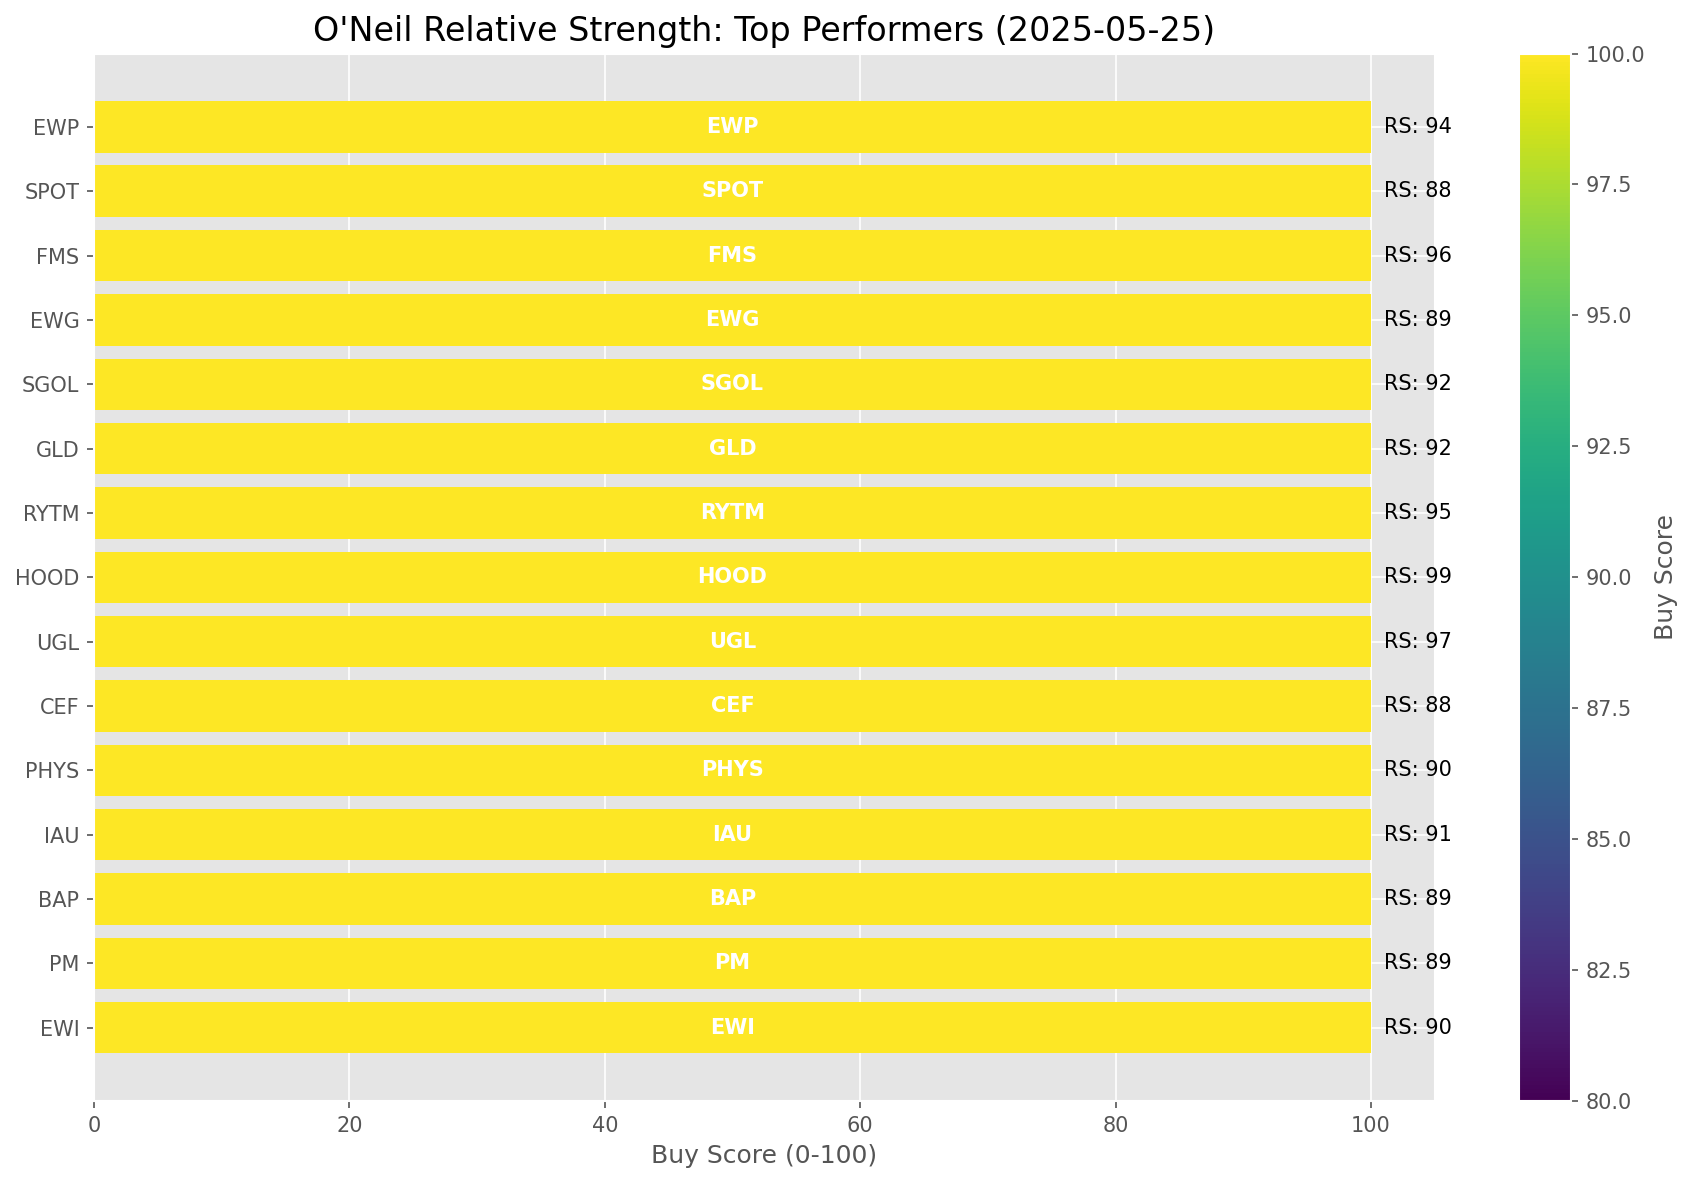
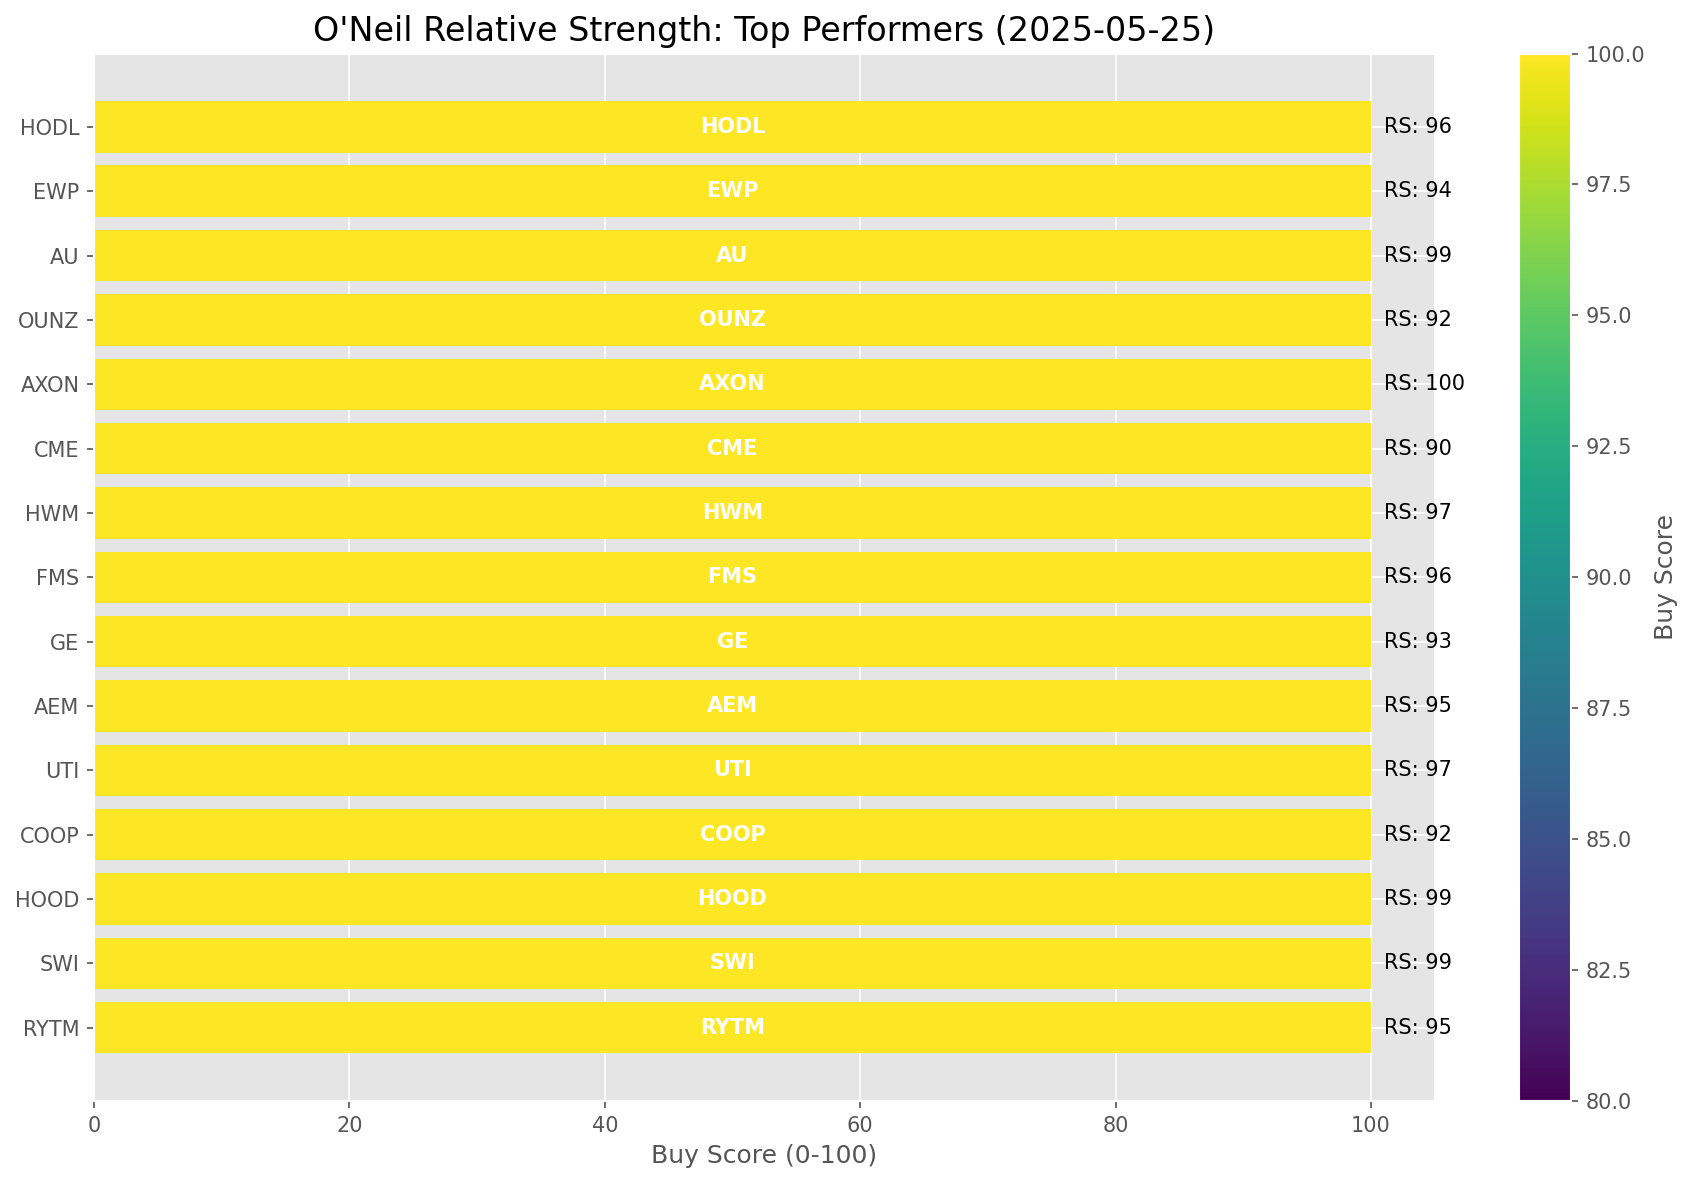
Add market report for 2025-05-25

diff --git a/oneil_relative_strength_report_2025-05-25.md b/oneil_relative_strength_report_2025-05-25.md
@@ -51,8 +51,8 @@ Based on William O'Neil's Relative Strength Methodology
 |-----|----------|-----------|-------------|--------------|-------|--------|
 | [GLD](https://www.tradingview.com/chart/?symbol=GLD) | 96.0 | 92.0 | 15.31% | 10d ✓, 50d ✓, 200d ✓ | ↗ | Gold |
 | [CIBR](https://www.tradingview.com/chart/?symbol=CIBR) | 91.0 | 82.0 | 7.07% | 10d ✓, 50d ✓, 200d ✓ | ↗ | Cybersecurity |
-| [SLV](https://www.tradingview.com/chart/?symbol=SLV) | 90.0 | 80.0 | 5.62% | 10d ✓, 50d ✓, 200d ✓ | ↗ | Silver |
 | [ARKW](https://www.tradingview.com/chart/?symbol=ARKW) | 90.0 | 80.0 | 5.81% | 10d ✓, 50d ✓, 200d ✓ | ↗ | Next Generation Internet |
+| [SLV](https://www.tradingview.com/chart/?symbol=SLV) | 90.0 | 80.0 | 5.62% | 10d ✓, 50d ✓, 200d ✓ | ↗ | Silver |
 | [XLU](https://www.tradingview.com/chart/?symbol=XLU) | 85.5 | 71.0 | 2.00% | 10d ✓, 50d ✓, 200d ✓ | ↗ | Utilities |
 | [BLOK](https://www.tradingview.com/chart/?symbol=BLOK) | 84.5 | 69.0 | 1.41% | 10d ✓, 50d ✓, 200d ✓ | ↗ | Blockchain & Cryptocurrency |
 | [ARKF](https://www.tradingview.com/chart/?symbol=ARKF) | 81.1 | 82.0 | 6.96% | 10d ✗, 50d ✓, 200d ✓ | ↗ | Fintech Innovation |
@@ -98,7 +98,7 @@ This table shows the relative strength metrics for different market sectors base
 
 ### **Current Sector Leadership**
 
-The current market leadership is coming from the following sectors: **Gold, Cybersecurity, Silver**.
+The current market leadership is coming from the following sectors: **Gold, Cybersecurity, Next Generation Internet**.
 
 The **Gold** sector (represented by **GLD**) is showing particularly strong relative strength with an RS rating of 92.0 and performance of 15.31% vs. the S&P 500. This sector is trading above its 10-day, 50-day, 200-day moving average(s). Investors should consider focusing on high RS stocks within these leading sectors for potential outperformance.
 
@@ -110,34 +110,34 @@ The following 82 stocks show exceptional relative strength:
 
 | RS Rating | Buy Score | Current Price | Chart | Name | Ticker |
 |-----------|-----------|---------------|-------|------|--------|
-| 100 | 100 | $203.26 | [Chart](https://www.tradingview.com/chart/?symbol=AGX) | Argan, Inc | AGX |
 | 100 | 100 | $731.37 | [Chart](https://www.tradingview.com/chart/?symbol=AXON) | Axon Enterprise, Inc. Common Stock | AXON |
-| 100 | 100 | $105.31 | [Chart](https://www.tradingview.com/chart/?symbol=SEZL) | Sezzle Inc. Common Stock | SEZL |
 | 100 | 100 | $92.35 | [Chart](https://www.tradingview.com/chart/?symbol=RBRK) | Rubrik, Inc. | RBRK |
+| 100 | 100 | $105.31 | [Chart](https://www.tradingview.com/chart/?symbol=SEZL) | Sezzle Inc. Common Stock | SEZL |
+| 100 | 100 | $203.26 | [Chart](https://www.tradingview.com/chart/?symbol=AGX) | Argan, Inc | AGX |
 | 100 | 100 | $197.32 | [Chart](https://www.tradingview.com/chart/?symbol=DAVE) | Dave Inc. Class A Common Stock | DAVE |
-| 100 | 100 | $23.15 | [Chart](https://www.tradingview.com/chart/?symbol=PRA) | ProAssurance Corporation | PRA |
 | 100 | 100 | $464.39 | [Chart](https://www.tradingview.com/chart/?symbol=GEV) | GE Vernova Inc. | GEV |
+| 100 | 100 | $23.15 | [Chart](https://www.tradingview.com/chart/?symbol=PRA) | ProAssurance Corporation | PRA |
 | 99 | 100 | $63.17 | [Chart](https://www.tradingview.com/chart/?symbol=HOOD) | Robinhood Markets, Inc. Class A Common Stock | HOOD |
-| 99 | 100 | $304.11 | [Chart](https://www.tradingview.com/chart/?symbol=CVNA) | Carvana Co. | CVNA |
 | 99 | 100 | $44.04 | [Chart](https://www.tradingview.com/chart/?symbol=AU) | AngloGold Ashanti plc | AU |
 | 99 | 100 | $36.01 | [Chart](https://www.tradingview.com/chart/?symbol=KTOS) | Kratos Defense & Security Solutions, Inc. | KTOS |
 | 99 | 100 | $82.26 | [Chart](https://www.tradingview.com/chart/?symbol=RBLX) | Roblox Corporation | RBLX |
+| 99 | 100 | $304.11 | [Chart](https://www.tradingview.com/chart/?symbol=CVNA) | Carvana Co. | CVNA |
 | 98 | 100 | $164.06 | [Chart](https://www.tradingview.com/chart/?symbol=SE) | Sea Limited American Depositary Shares, each representing one Class A Ordinary Share | SE |
 | 98 | 100 | $71.79 | [Chart](https://www.tradingview.com/chart/?symbol=ULS) | UL Solutions Inc. | ULS |
-| 98 | 100 | $55.28 | [Chart](https://www.tradingview.com/chart/?symbol=SHLD) | Global X Defense Tech ETF | SHLD |
 | 98 | 100 | $162.56 | [Chart](https://www.tradingview.com/chart/?symbol=PLMR) | Palomar Holdings, Inc. Common stock | PLMR |
+| 98 | 100 | $55.28 | [Chart](https://www.tradingview.com/chart/?symbol=SHLD) | Global X Defense Tech ETF | SHLD |
 | 98 | 100 | $24.00 | [Chart](https://www.tradingview.com/chart/?symbol=GRND) | Grindr Inc. | GRND |
-| 97 | 100 | $144.55 | [Chart](https://www.tradingview.com/chart/?symbol=UGL) | ProShares Ultra Gold | UGL |
+| 97 | 100 | $34.99 | [Chart](https://www.tradingview.com/chart/?symbol=UTI) | Universal Technical Institute, Inc. | UTI |
 | 97 | 100 | $165.09 | [Chart](https://www.tradingview.com/chart/?symbol=HWM) | Howmet Aerospace Inc. | HWM |
+| 97 | 100 | $144.55 | [Chart](https://www.tradingview.com/chart/?symbol=UGL) | ProShares Ultra Gold | UGL |
 | 97 | 100 | $26.30 | [Chart](https://www.tradingview.com/chart/?symbol=UVE) | UNIVERSAL INSURANCE HLDG, INC. | UVE |
 | 97 | 100 | $21.78 | [Chart](https://www.tradingview.com/chart/?symbol=TFPM) | Triple Flag Precious Metals Corp. | TFPM |
-| 97 | 100 | $34.99 | [Chart](https://www.tradingview.com/chart/?symbol=UTI) | Universal Technical Institute, Inc. | UTI |
 | 97 | 100 | $37.04 | [Chart](https://www.tradingview.com/chart/?symbol=AS) | Amer Sports, Inc. | AS |
 | 96 | 100 | $29.02 | [Chart](https://www.tradingview.com/chart/?symbol=FMS) | Fresenius Medical Care AG | FMS |
-| 96 | 100 | $61.83 | [Chart](https://www.tradingview.com/chart/?symbol=IBIT) | iShares Bitcoin Trust ETF | IBIT |
 | 96 | 100 | $30.77 | [Chart](https://www.tradingview.com/chart/?symbol=HODL) | VanEck Bitcoin ETF | HODL |
-| 96 | 100 | $86.62 | [Chart](https://www.tradingview.com/chart/?symbol=WPM) | Wheaton Precious Metals Corp. Common Stock | WPM |
+| 96 | 100 | $61.83 | [Chart](https://www.tradingview.com/chart/?symbol=IBIT) | iShares Bitcoin Trust ETF | IBIT |
 | 96 | 100 | $18.84 | [Chart](https://www.tradingview.com/chart/?symbol=MIR) | Mirion Technologies, Inc. | MIR |
+| 96 | 100 | $86.62 | [Chart](https://www.tradingview.com/chart/?symbol=WPM) | Wheaton Precious Metals Corp. Common Stock | WPM |
 | 96 | 100 | $48.18 | [Chart](https://www.tradingview.com/chart/?symbol=BTC) | Grayscale Bitcoin Mini Trust ETF | BTC |
 | 95 | 100 | $62.36 | [Chart](https://www.tradingview.com/chart/?symbol=RYTM) | Rhythm Pharmaceuticals, Inc. Common Stock | RYTM |
 | 95 | 100 | $117.62 | [Chart](https://www.tradingview.com/chart/?symbol=AEM) | Agnico Eagle Mines Ltd. | AEM |
@@ -146,35 +146,35 @@ The following 82 stocks show exceptional relative strength:
 | 94 | 100 | $152.75 | [Chart](https://www.tradingview.com/chart/?symbol=CAH) | Cardinal Health, Inc. | CAH |
 | 94 | 100 | $180.59 | [Chart](https://www.tradingview.com/chart/?symbol=RGLD) | Royal Gold Inc | RGLD |
 | 94 | 100 | $75.06 | [Chart](https://www.tradingview.com/chart/?symbol=VRNA) | Verona Pharma plc | VRNA |
-| 93 | 100 | $45.22 | [Chart](https://www.tradingview.com/chart/?symbol=BTI) | British American Tobacco p.l.c. American Depositary Shares, American Depositary Shares, each representing one Ordinary Share | BTI |
 | 93 | 100 | $232.79 | [Chart](https://www.tradingview.com/chart/?symbol=GE) | GE Aerospace | GE |
 | 93 | 100 | $97.99 | [Chart](https://www.tradingview.com/chart/?symbol=JCI) | Johnson Controls International plc | JCI |
-| 92 | 100 | $309.75 | [Chart](https://www.tradingview.com/chart/?symbol=GLD) | SPDR Gold Trust, SPDR Gold Shares | GLD |
-| 92 | 100 | $32.07 | [Chart](https://www.tradingview.com/chart/?symbol=SGOL) | abrdn Physical Gold Shares ETF | SGOL |
-| 92 | 100 | $23.89 | [Chart](https://www.tradingview.com/chart/?symbol=SRAD) | Sportradar Group AG Class A Ordinary Shares | SRAD |
-| 92 | 100 | $33.20 | [Chart](https://www.tradingview.com/chart/?symbol=AAAU) | Goldman Sachs Physical Gold ETF Shares | AAAU |
+| 93 | 100 | $45.22 | [Chart](https://www.tradingview.com/chart/?symbol=BTI) | British American Tobacco p.l.c. American Depositary Shares, American Depositary Shares, each representing one Ordinary Share | BTI |
+| 92 | 100 | $129.50 | [Chart](https://www.tradingview.com/chart/?symbol=COOP) | Mr. Cooper Group Inc. Common Stock | COOP |
 | 92 | 100 | $32.40 | [Chart](https://www.tradingview.com/chart/?symbol=OUNZ) | VanEck Merk Gold ETF | OUNZ |
+| 92 | 100 | $32.07 | [Chart](https://www.tradingview.com/chart/?symbol=SGOL) | abrdn Physical Gold Shares ETF | SGOL |
+| 92 | 100 | $33.20 | [Chart](https://www.tradingview.com/chart/?symbol=AAAU) | Goldman Sachs Physical Gold ETF Shares | AAAU |
+| 92 | 100 | $33.51 | [Chart](https://www.tradingview.com/chart/?symbol=IAUM) | iShares Gold Trust Micro | IAUM |
 | 92 | 100 | $73.08 | [Chart](https://www.tradingview.com/chart/?symbol=WRB) | W.R. Berkley Corporation | WRB |
 | 92 | 100 | $66.57 | [Chart](https://www.tradingview.com/chart/?symbol=GLDM) | SPDR Gold MiniShares | GLDM |
-| 92 | 100 | $129.50 | [Chart](https://www.tradingview.com/chart/?symbol=COOP) | Mr. Cooper Group Inc. Common Stock | COOP |
-| 92 | 100 | $33.51 | [Chart](https://www.tradingview.com/chart/?symbol=IAUM) | iShares Gold Trust Micro | IAUM |
+| 92 | 100 | $309.75 | [Chart](https://www.tradingview.com/chart/?symbol=GLD) | SPDR Gold Trust, SPDR Gold Shares | GLD |
+| 92 | 100 | $23.89 | [Chart](https://www.tradingview.com/chart/?symbol=SRAD) | Sportradar Group AG Class A Ordinary Shares | SRAD |
 | 91 | 100 | $63.38 | [Chart](https://www.tradingview.com/chart/?symbol=IAU) | iShares Gold Trust | IAU |
-| 91 | 100 | $230.16 | [Chart](https://www.tradingview.com/chart/?symbol=CRS) | Carpenter Technology Corp | CRS |
 | 91 | 100 | $63.63 | [Chart](https://www.tradingview.com/chart/?symbol=SLF) | Sun Life Financial Inc. | SLF |
+| 91 | 100 | $230.16 | [Chart](https://www.tradingview.com/chart/?symbol=CRS) | Carpenter Technology Corp | CRS |
 | 91 | 100 | $17.65 | [Chart](https://www.tradingview.com/chart/?symbol=BCS) | Barclays PLC | BCS |
 | 91 | 100 | $34.43 | [Chart](https://www.tradingview.com/chart/?symbol=FDP) | Fresh Del Monte Produce Inc. | FDP |
 | 91 | 100 | $243.08 | [Chart](https://www.tradingview.com/chart/?symbol=TLN) | Talen Energy Corporation Common Stock | TLN |
-| 90 | 100 | $46.96 | [Chart](https://www.tradingview.com/chart/?symbol=EWI) | iShares MSCI Italy ETF | EWI |
-| 90 | 100 | $25.65 | [Chart](https://www.tradingview.com/chart/?symbol=PHYS) | Sprott Physical Gold Trust | PHYS |
-| 90 | 100 | $171.05 | [Chart](https://www.tradingview.com/chart/?symbol=ITA) | iShares U.S. Aerospace & Defense ETF | ITA |
 | 90 | 100 | $284.07 | [Chart](https://www.tradingview.com/chart/?symbol=CME) | CME Group Inc. | CME |
+| 90 | 100 | $25.65 | [Chart](https://www.tradingview.com/chart/?symbol=PHYS) | Sprott Physical Gold Trust | PHYS |
+| 90 | 100 | $46.96 | [Chart](https://www.tradingview.com/chart/?symbol=EWI) | iShares MSCI Italy ETF | EWI |
+| 90 | 100 | $171.05 | [Chart](https://www.tradingview.com/chart/?symbol=ITA) | iShares U.S. Aerospace & Defense ETF | ITA |
 | 90 | 100 | $50.45 | [Chart](https://www.tradingview.com/chart/?symbol=TRP) | TC Energy Corporation | TRP |
-| 89 | 100 | $178.19 | [Chart](https://www.tradingview.com/chart/?symbol=PM) | Philip Morris International Inc. | PM |
 | 89 | 100 | $204.24 | [Chart](https://www.tradingview.com/chart/?symbol=BAP) | Credicorp LTD | BAP |
+| 89 | 100 | $178.19 | [Chart](https://www.tradingview.com/chart/?symbol=PM) | Philip Morris International Inc. | PM |
 | 89 | 100 | $41.26 | [Chart](https://www.tradingview.com/chart/?symbol=EWG) | iShares MSCI Germany ETF | EWG |
-| 88 | 100 | $29.60 | [Chart](https://www.tradingview.com/chart/?symbol=CEF) | Sprott Physical Gold and Silver Trust | CEF |
-| 88 | 100 | $653.82 | [Chart](https://www.tradingview.com/chart/?symbol=SPOT) | Spotify Technology S.A. | SPOT |
 | 88 | 100 | $82.42 | [Chart](https://www.tradingview.com/chart/?symbol=NFG) | National Fuel Gas Co. | NFG |
+| 88 | 100 | $653.82 | [Chart](https://www.tradingview.com/chart/?symbol=SPOT) | Spotify Technology S.A. | SPOT |
+| 88 | 100 | $29.60 | [Chart](https://www.tradingview.com/chart/?symbol=CEF) | Sprott Physical Gold and Silver Trust | CEF |
 | 90 | 99 | $31.00 | [Chart](https://www.tradingview.com/chart/?symbol=TGS) | Transportadora de Gas del Sur S.A. ADS | TGS |
 | 89 | 99 | $119.47 | [Chart](https://www.tradingview.com/chart/?symbol=CLS) | Celestica, Inc. | CLS |
 | 88 | 99 | $55.44 | [Chart](https://www.tradingview.com/chart/?symbol=RELX) | RELX PLC | RELX |
@@ -202,33 +202,33 @@ The following 136 stocks show deteriorating relative strength:
 
 | RS Rating | Sell Score | Current Price | Chart | Name | Ticker |
 |-----------|------------|---------------|-------|------|--------|
-| 1 | 100 | $12.30 | [Chart](https://www.tradingview.com/chart/?symbol=IART) | Integra LifeSciences Holdings | IART |
 | 1 | 100 | $16.83 | [Chart](https://www.tradingview.com/chart/?symbol=BEAM) | Beam Therapeutics Inc. Common Stock | BEAM |
-| 2 | 100 | $13.13 | [Chart](https://www.tradingview.com/chart/?symbol=DV) | DoubleVerify Holdings, Inc. | DV |
+| 1 | 100 | $12.30 | [Chart](https://www.tradingview.com/chart/?symbol=IART) | Integra LifeSciences Holdings | IART |
 | 2 | 100 | $50.47 | [Chart](https://www.tradingview.com/chart/?symbol=LABU) | Direxion Daily S&P Biotech Bull 3X Shares | LABU |
 | 2 | 100 | $16.79 | [Chart](https://www.tradingview.com/chart/?symbol=FWRD) | Forward Air Corp | FWRD |
+| 2 | 100 | $13.13 | [Chart](https://www.tradingview.com/chart/?symbol=DV) | DoubleVerify Holdings, Inc. | DV |
 | 3 | 100 | $13.73 | [Chart](https://www.tradingview.com/chart/?symbol=DQ) | Daqo New Energy Corp. American Depositary Shares (each representing 5 Ordinary Shares) | DQ |
 | 3 | 100 | $10.22 | [Chart](https://www.tradingview.com/chart/?symbol=HPK) | HighPeak Energy, Inc. Common Stock | HPK |
 | 3 | 100 | $30.54 | [Chart](https://www.tradingview.com/chart/?symbol=CYTK) | Cytokinetics Inc. | CYTK |
-| 4 | 100 | $13.42 | [Chart](https://www.tradingview.com/chart/?symbol=DNLI) | Denali Therapeutics Inc. Common Stock | DNLI |
 | 4 | 100 | $16.80 | [Chart](https://www.tradingview.com/chart/?symbol=VRNT) | Verint Systems Inc | VRNT |
-| 4 | 100 | $28.26 | [Chart](https://www.tradingview.com/chart/?symbol=TWST) | Twist Bioscience Corporation Common Stock | TWST |
 | 4 | 100 | $10.85 | [Chart](https://www.tradingview.com/chart/?symbol=CLB) | Core Laboratories Inc. | CLB |
-| 4 | 100 | $120.78 | [Chart](https://www.tradingview.com/chart/?symbol=TFX) | Teleflex Incorporated | TFX |
+| 4 | 100 | $28.26 | [Chart](https://www.tradingview.com/chart/?symbol=TWST) | Twist Bioscience Corporation Common Stock | TWST |
 | 4 | 100 | $125.05 | [Chart](https://www.tradingview.com/chart/?symbol=KRYS) | Krystal Biotech, Inc. Common Stock | KRYS |
+| 4 | 100 | $120.78 | [Chart](https://www.tradingview.com/chart/?symbol=TFX) | Teleflex Incorporated | TFX |
+| 4 | 100 | $13.42 | [Chart](https://www.tradingview.com/chart/?symbol=DNLI) | Denali Therapeutics Inc. Common Stock | DNLI |
 | 5 | 100 | $11.44 | [Chart](https://www.tradingview.com/chart/?symbol=WEN) | The Wendy's Company | WEN |
 | 5 | 100 | $41.47 | [Chart](https://www.tradingview.com/chart/?symbol=WHD) | Cactus, Inc. | WHD |
-| 6 | 100 | $29.16 | [Chart](https://www.tradingview.com/chart/?symbol=SRDX) | Surmodics, Inc. Common Stock | SRDX |
 | 6 | 100 | $14.46 | [Chart](https://www.tradingview.com/chart/?symbol=IMVT) | Immunovant, Inc. Common Stock | IMVT |
+| 6 | 100 | $29.16 | [Chart](https://www.tradingview.com/chart/?symbol=SRDX) | Surmodics, Inc. Common Stock | SRDX |
 | 6 | 100 | $60.77 | [Chart](https://www.tradingview.com/chart/?symbol=ARCB) | ArcBest Corporation | ARCB |
 | 6 | 100 | $16.29 | [Chart](https://www.tradingview.com/chart/?symbol=MLKN) | MillerKnoll, Inc. Common Stock | MLKN |
-| 7 | 100 | $15.08 | [Chart](https://www.tradingview.com/chart/?symbol=PENN) | PENN Entertainment, Inc. Common Stock | PENN |
-| 7 | 100 | $31.46 | [Chart](https://www.tradingview.com/chart/?symbol=MBIN) | Merchants Bancorp Common Stock | MBIN |
 | 7 | 100 | $22.96 | [Chart](https://www.tradingview.com/chart/?symbol=RPD) | Rapid7, Inc. Common Stock | RPD |
+| 7 | 100 | $15.08 | [Chart](https://www.tradingview.com/chart/?symbol=PENN) | PENN Entertainment, Inc. Common Stock | PENN |
 | 7 | 100 | $20.14 | [Chart](https://www.tradingview.com/chart/?symbol=AMRK) | A-Mark Precious Metals, Inc. | AMRK |
+| 7 | 100 | $31.46 | [Chart](https://www.tradingview.com/chart/?symbol=MBIN) | Merchants Bancorp Common Stock | MBIN |
 | 8 | 100 | $16.82 | [Chart](https://www.tradingview.com/chart/?symbol=COLD) | Americold Realty Trust, Inc. | COLD |
-| 8 | 100 | $12.20 | [Chart](https://www.tradingview.com/chart/?symbol=ARCT) | Arcturus Therapeutics Holdings Inc. Common Stock | ARCT |
 | 8 | 100 | $33.58 | [Chart](https://www.tradingview.com/chart/?symbol=WGO) | Winnebago Industries, Inc. | WGO |
+| 8 | 100 | $12.20 | [Chart](https://www.tradingview.com/chart/?symbol=ARCT) | Arcturus Therapeutics Holdings Inc. Common Stock | ARCT |
 | 8 | 100 | $45.31 | [Chart](https://www.tradingview.com/chart/?symbol=RHI) | Robert Half Inc. | RHI |
 | 9 | 100 | $52.83 | [Chart](https://www.tradingview.com/chart/?symbol=OXM) | Oxford Industries, Inc. | OXM |
 | 9 | 100 | $19.23 | [Chart](https://www.tradingview.com/chart/?symbol=NVDS) | Investment Managers Series Trust II Tradr 1.5X Short NVDA Daily ETF | NVDS |
@@ -243,8 +243,8 @@ The following 136 stocks show deteriorating relative strength:
 | 17 | 99 | $11.91 | [Chart](https://www.tradingview.com/chart/?symbol=ZUMZ) | Zumiez Inc. | ZUMZ |
 | 5 | 98 | $10.31 | [Chart](https://www.tradingview.com/chart/?symbol=VREX) | Varex Imaging Corporation Common Stock | VREX |
 | 7 | 98 | $77.28 | [Chart](https://www.tradingview.com/chart/?symbol=WHR) | Whirlpool Corp. | WHR |
-| 8 | 98 | $10.17 | [Chart](https://www.tradingview.com/chart/?symbol=PK) | Park Hotels & Resorts Inc. Common Stock | PK |
 | 8 | 98 | $14.23 | [Chart](https://www.tradingview.com/chart/?symbol=INMD) | InMode Ltd. Ordinary Shares | INMD |
+| 8 | 98 | $10.17 | [Chart](https://www.tradingview.com/chart/?symbol=PK) | Park Hotels & Resorts Inc. Common Stock | PK |
 | 6 | 97 | $19.64 | [Chart](https://www.tradingview.com/chart/?symbol=VERA) | Vera Therapeutics, Inc. Class A Common Stock | VERA |
 | 11 | 97 | $20.77 | [Chart](https://www.tradingview.com/chart/?symbol=AMN) | AMN Healthcare Services | AMN |
 | 14 | 97 | $19.20 | [Chart](https://www.tradingview.com/chart/?symbol=VECO) | Veeco Instruments Inc | VECO |
@@ -308,8 +308,8 @@ The following 136 stocks show deteriorating relative strength:
 | 25 | 80 | $25.57 | [Chart](https://www.tradingview.com/chart/?symbol=NATL) | NCR Atleos Corporation | NATL |
 | 23 | 79 | $75.75 | [Chart](https://www.tradingview.com/chart/?symbol=CNS) | Cohen & Steers Inc. | CNS |
 | 26 | 79 | $119.93 | [Chart](https://www.tradingview.com/chart/?symbol=SUI) | Sun Communities, Inc | SUI |
-| 29 | 79 | $14.58 | [Chart](https://www.tradingview.com/chart/?symbol=VRE) | Veris Residential, Inc. | VRE |
 | 29 | 79 | $12.06 | [Chart](https://www.tradingview.com/chart/?symbol=WSR) | Whitestone REIT | WSR |
+| 29 | 79 | $14.58 | [Chart](https://www.tradingview.com/chart/?symbol=VRE) | Veris Residential, Inc. | VRE |
 | 33 | 79 | $170.80 | [Chart](https://www.tradingview.com/chart/?symbol=ALGN) | Align Technology Inc | ALGN |
 | 23 | 78 | $36.54 | [Chart](https://www.tradingview.com/chart/?symbol=NBHC) | NATIONAL BANK HOLDINGS CORP. | NBHC |
 | 28 | 77 | $15.60 | [Chart](https://www.tradingview.com/chart/?symbol=ELME) | Elme Communities | ELME |
